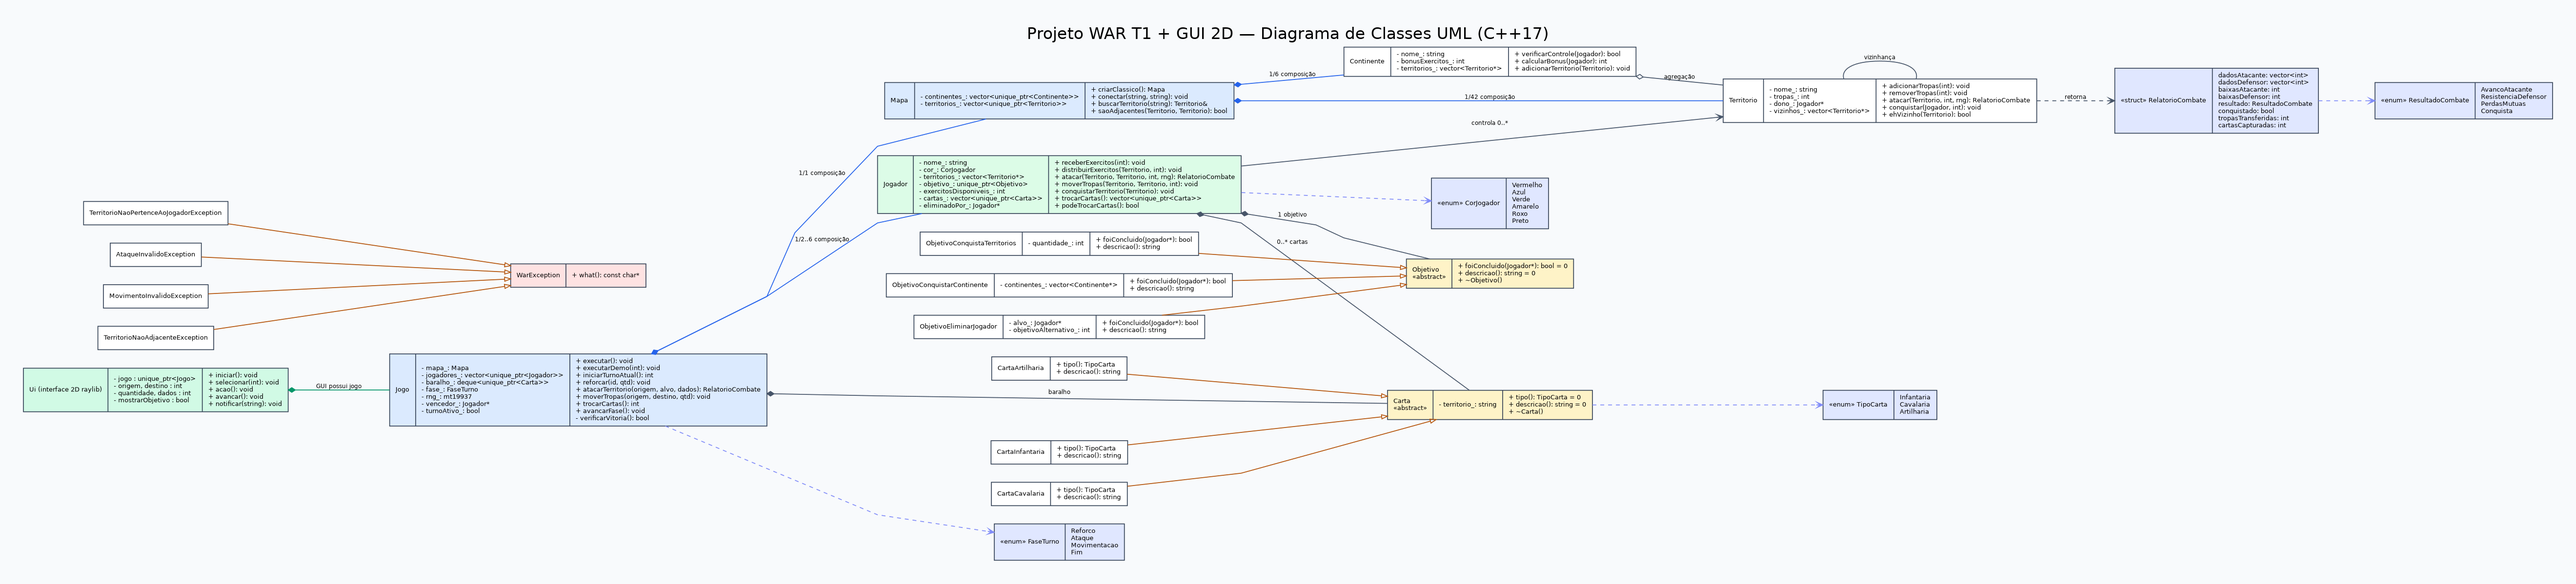
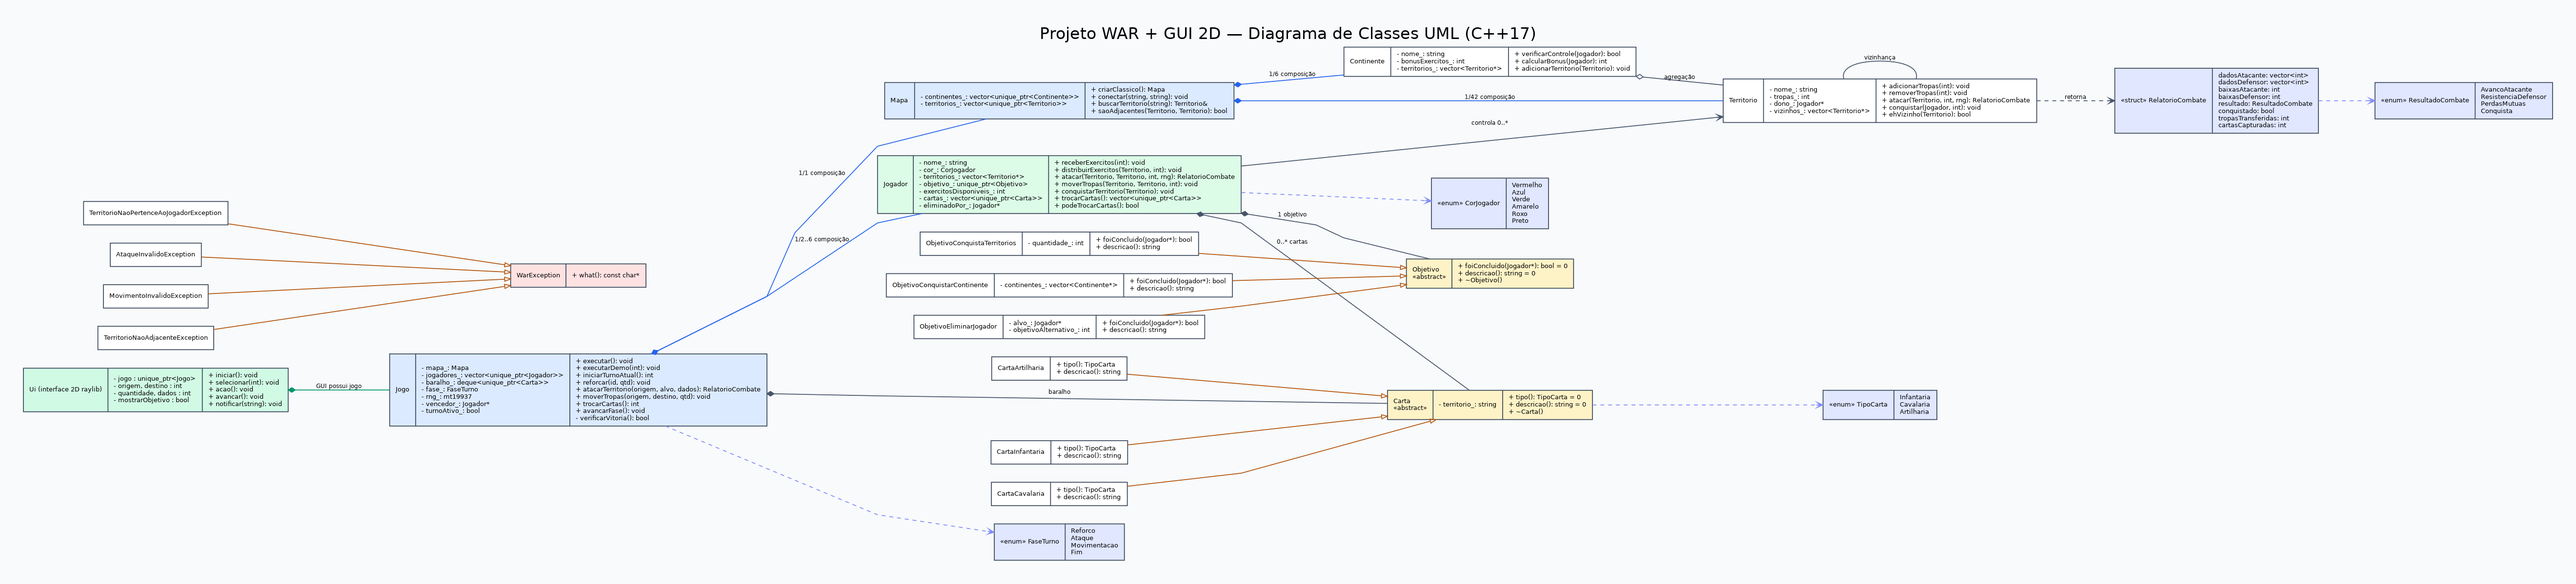
Remove informacoes academicas da documentacao

diff --git a/README.md b/README.md
@@ -1,10 +1,7 @@
 # Projeto WAR — clone educacional em C++17
 
-**Trabalho de Programação Orientada a Objetos (POO)**  
-Versão **2.0 — motor T1 revisado + interface visual 2D opcional** — Jogo completo por **terminal ou janela raylib**, para **2 a 6 pessoas**, ou simulação automática de jogadores.  
+Versão **2.0 — motor do jogo + interface visual 2D opcional** — Jogo completo por **terminal ou janela raylib**, para **2 a 6 pessoas**, ou simulação automática de jogadores.  
 **O motor e o executável de terminal não dependem de bibliotecas gráficas.** A GUI opcional (`make gui`) utiliza **raylib** e preserva a arquitetura C++17.
-
-> **Conferência oficial:** o projeto foi revisado em relação ao arquivo **Enunciado T1 - Jogo Livre.pdf**, fornecido pelo aluno. Veja `docs/CONFERENCIA_T1.md` para a matriz de exigências, limitações e tarefas administrativas ainda pendentes. A **interface 2D com raylib está incluída** nesta entrega como alternativa ao terminal (candidata aos +2 pontos extras; o professor deve avaliar).
 
 ## Interface visual 2D (opcional)
 
@@ -60,18 +57,15 @@ Opcionalmente, execute `executar_windows.bat`, que compila e abre o jogo.
 
    ```bash
    sudo apt update
-   sudo apt install -y build-essential unzip
+   sudo apt install -y build-essential git
    ```
 
-2. Se o arquivo ZIP estiver na pasta **Downloads** do Windows, vá até ela, extraia e entre no projeto (substitua `SEU_USUARIO` pelo nome do usuário do Windows):
+2. Clone o repositório e entre na pasta do projeto:
 
    ```bash
-   cd /mnt/c/Users/SEU_USUARIO/Downloads
-   unzip ProjetoWAR_Final_T1_Revisado.zip
-   cd ProjetoWAR
+   git clone https://github.com/LeoFR007/war.git
+   cd war
    ```
-
-   Se você já extraiu o ZIP pelo Windows, basta entrar na pasta `ProjetoWAR` pelo WSL. Para descobrir onde está: `pwd` e `ls`.
 
 3. Compile o jogo e execute:
 
@@ -217,7 +211,7 @@ A partida também termina quando **apenas um jogador ainda possuir territórios*
 
 ### Simplificações intencionais
 
-Esta é uma **adaptação acadêmica jogável do WAR/Risk**, não uma reprodução exata de cada edição comercial. A interface é textual; a defesa utiliza automaticamente o máximo de três dados; as movimentações são locais (territórios adjacentes), múltiplas durante a fase; os jogadores começam com uma tropa por território e oito tropas adicionais aleatoriamente distribuídas. Não existem negociações, missões/cartas secretas impressas, coringas ou mapa gráfico interativo.
+Esta é uma **adaptação jogável do WAR/Risk**, não uma reprodução exata de cada edição comercial. A interface é textual; a defesa utiliza automaticamente o máximo de três dados; as movimentações são locais (territórios adjacentes), múltiplas durante a fase; os jogadores começam com uma tropa por território e oito tropas adicionais aleatoriamente distribuídas. Não existem negociações, missões/cartas secretas impressas, coringas ou mapa gráfico interativo.
 
 ## 4. Arquitetura de classes (UML)
 
@@ -290,7 +284,7 @@ Os comandos interativos usam `try/catch` nas ações críticas, informando a fal
 ## 7. Estrutura do projeto
 
 ```text
-ProjetoWAR/
+war/
 ├── CMakeLists.txt
 ├── README.md
 ├── Makefile
@@ -323,9 +317,7 @@ ProjetoWAR/
 │   ├── EXEMPLO_EXECUCAO.txt
 │   ├── UML.svg
 │   ├── RELATORIO.md
-│   ├── CONFERENCIA_T1.md
 │   ├── MODELAGEM_UML.md
-│   ├── ROTEIRO_APRESENTACAO.md
 │   └── EVOLUCAO_2D.md
 └── tests/
     └── testes.cpp
@@ -340,28 +332,6 @@ ProjetoWAR/
 
 Os testes incluem quantidade de territórios e continentes, simetria de adjacências, conexão intercontinental, posse, movimentações inválidas, reforço, ataque, conquista, cartas, eliminação com transferência de cartas, troca obrigatória com cinco cartas, fases da API do motor, partidas com 2 a 6 jogadores e os três objetivos.
 
-## 9. Entrega no GitHub — exigência do professor
+## 9. Créditos
 
-O PDF exige **um único entregável: o link do repositório**, e **todos os integrantes devem estar cadastrados como colaboradores**. A entrega deve ocorrer **até 01/11/2026 às 23h50**; o professor também exige que a escolha do jogo seja previamente combinada com ele.
-
-Dentro da raiz do projeto, para criar o histórico local (se ainda não existe um repositório):
-
-```bash
-git init
-git add .
-git commit -m "Projeto WAR T1 - versao revisada C++ e UML"
-```
-
-Crie um repositório vazio na sua conta GitHub e associe-o conforme o endereço fornecido pela plataforma, por exemplo:
-
-```bash
-git branch -M main
-git remote add origin URL_DO_REPOSITORIO
-git push -u origin main
-```
-
-**Não copie `URL_DO_REPOSITORIO` literalmente**: substitua pelo endereço real do seu projeto. Cadastre todos os colaboradores no GitHub e confira se **`docs/UML.png` e `docs/UML.dot`** estão publicados. Consulte `docs/CONFERENCIA_T1.md` e `docs/ROTEIRO_APRESENTACAO.md`.
-
-## 10. Créditos e licença de uso acadêmico
-
-Implementação original e didática inspirada nas mecânicas gerais de jogos de conquista territorial. Não utiliza artes, logotipos, textos de cartas ou outros materiais licenciados de jogos comerciais. O projeto é disponibilizado para estudo, modificação e apresentação acadêmica.
+Implementação original e didática inspirada nas mecânicas gerais de jogos de conquista territorial. Não utiliza artes, logotipos, textos de cartas ou outros materiais licenciados de jogos comerciais. O projeto é disponibilizado para estudo e modificação.

diff --git a/docs/RELATORIO.md b/docs/RELATORIO.md
@@ -3,12 +3,12 @@
 ## 1. Identificação do projeto
 
 **Título:** Jogo WAR: modelagem UML e orientação a objetos em C++17.  
-**Tipo:** Trabalho acadêmico — implementação de jogo preexistente.  
-**Forma de execução:** Terminal de texto; 2 a 6 jogadores humanos ou bots demonstrativos. Revisado frente ao PDF do T1, versão 1.1.
+**Tipo:** Implementação de um jogo de tabuleiro de conquista territorial.  
+**Forma de execução:** Terminal de texto; 2 a 6 jogadores humanos ou bots demonstrativos.
 
 ## 2. Introdução e objetivo
 
-O software recria as mecânicas essenciais de um jogo de conquista territorial, incluindo mapas, continentes, domínios, distribuição de exércitos, turnos, combate com dados, cartas e objetivos pessoais. O foco do trabalho é utilizar conceitos de POO de forma verificável: classes com responsabilidades específicas, herança, abstração, composição, agregação, associações, lambdas, enumerações e tratamento de erros.
+O software recria as mecânicas essenciais de um jogo de conquista territorial, incluindo mapas, continentes, domínios, distribuição de exércitos, turnos, combate com dados, cartas e objetivos pessoais. O foco do projeto é utilizar conceitos de POO de forma verificável: classes com responsabilidades específicas, herança, abstração, composição, agregação, associações, lambdas, enumerações e tratamento de erros.
 
 ## 3. Modelagem UML e arquitetura
 
@@ -64,7 +64,7 @@ Inicializar mapa -> distribuir territórios -> definir objetivos -> montar baral
 | UML com classes e relacionamentos | `docs/UML.png`, `docs/UML.svg` |
 | Estrutura modular `.h` e `.cpp` | `include/`, `src/` |
 | Testes de regras, fases e troca obrigatória | `tests/testes.cpp` |
-| Projeto publicável como repositório | `.gitignore`, `README.md`, `docs/CONFERENCIA_T1.md` |
+| Projeto publicável como repositório | `.gitignore`, `README.md` |
 | README com instruções de compilação | `README.md` |
 
 ## 6. Demonstração de orientação a objetos
@@ -103,8 +103,6 @@ Inicializar mapa -> distribuir territórios -> definir objetivos -> montar baral
 
 A versão não implementa interface gráfica, escolhas de dados de defesa, todas as regras especiais de diferentes edições comerciais ou multiplayer em rede. A escolha das cartas-objetivo é determinística e a distribuição inicial é simplificada. O motor agora expõe operações por fase para facilitar um frontend 2D em SFML, raylib ou SDL2; a etapa gráfica ainda depende de implementação e testes específicos. Consulte `EVOLUCAO_2D.md`.
 
-**Exigências externas ao código:** aprovação prévia do jogo pelo professor, publicação de repositório, cadastro de todos os colaboradores e apresentação em aula; detalhes em `CONFERENCIA_T1.md`.
-
 ## 9. Conclusão
 
-O projeto consolida os pilares de POO em um domínio concreto com regras não triviais. O modelo de classes permite modificar os tipos de objetivos, cartas e a apresentação visual preservando as regras centrais. A compilação via CMake e a suíte de testes facilitam reprodução e avaliação acadêmica.
+O projeto consolida os pilares de POO em um domínio concreto com regras não triviais. O modelo de classes permite modificar os tipos de objetivos, cartas e a apresentação visual preservando as regras centrais. A compilação via CMake e a suíte de testes facilitam a reprodução e a validação do projeto.

diff --git a/docs/INTERFACE_2D.md b/docs/INTERFACE_2D.md
@@ -1,6 +1,6 @@
 # Interface 2D do WAR com raylib — WSL
 
-A interface 2D é **opcional** e funciona sobre o motor `war_core` já entregue no T1.
+A interface 2D é **opcional** e funciona sobre o motor `war_core` do jogo.
 A biblioteca usada é [raylib](https://www.raylib.com/), uma API simples para jogos 2D, implementada em C e compatível com C++17.
 A janela pode ser **redimensionada** sem perder os cliques no tabuleiro. O programa **é lançado pelo terminal** (`make gui`), mas abre uma **janela gráfica**. Isso requer WSL 2 com WSLg ou outro ambiente Linux com servidor gráfico; não desenha no terminal de texto.
 
@@ -73,7 +73,7 @@ cmake --build build-gui --target war_gui -j 2
 - O mapa é **esquemático**, não usa contornos geopolíticos oficiais e não é um desenho licenciado do tabuleiro WAR.
 - Jogadores locais têm nomes automáticos `Jogador 1`, `Jogador 2` etc.; ainda não há tela de personalização.
 - Não há trilha sonora, salvamento, IA visual ou animação elaborada dos dados. O combate é aplicado corretamente pelo motor; os valores são exibidos em texto.
-- O resultado final deve ser avaliado em ambiente real **WSLg com raylib instalada/baixada**, pois a compilação gráfica requer dependências de terceiros e servidor gráfico.
+- O resultado final deve ser testado em ambiente real **WSLg com raylib instalada/baixada**, pois a compilação gráfica requer dependências de terceiros e servidor gráfico.
 
 ## UML
 

diff --git a/docs/MODELAGEM_UML.md b/docs/MODELAGEM_UML.md
@@ -2,10 +2,10 @@
 
 ## Arquivos da UML
 
-- `UML.png`: diagrama completo em imagem, exigido no enunciado.
+- `UML.png`: diagrama completo em imagem.
 - `UML.svg`: mesma imagem vetorial, útil para leitura com zoom.
 - `UML.dot`: **arquivo-fonte editável** do diagrama (ferramenta Graphviz).
-- `UML_resumo.png` e `UML_resumo.dot`: visão de arquitetura mais simples para apresentações.
+- `UML_resumo.png` e `UML_resumo.dot`: visão de arquitetura mais simples.
 
 O arquivo `.dot` utiliza nós no formato *record* para representar classes com atributos e métodos, setas triangulares ocas para herança, diamante preenchido para composição, diamante vazio para agregação e associações direcionadas para as referências sem posse. A legenda fica expressa nos rótulos das relações.
 

diff --git a/docs/EVOLUCAO_2D.md b/docs/EVOLUCAO_2D.md
@@ -24,4 +24,4 @@ O terminal permanece implementado como frontend simples em `Jogo.cpp`. Para a et
 5. Exibir painel de jogadores/objetivos, dados de ataque animados e mensagem de vitória.
 6. Manter `make`, `make test` e o modo terminal funcionando para quem não tiver biblioteca gráfica.
 
-**Estado:** planejamento da próxima etapa. Nenhuma GUI 2D está inclusa nesta entrega.
+**Estado:** a primeira versão da interface 2D (raylib) já foi implementada; os itens acima ficam como referência para evoluções futuras.

diff --git a/docs/VERIFICACAO_GUI.md b/docs/VERIFICACAO_GUI.md
@@ -1,6 +1,6 @@
 # Registro de verificacao — interface 2D WAR
 
-## Verificado na entrega
+## Verificações realizadas
 
 - O jogo original continua compilando via `make` e `cmake` com C++17.
 - O alvo `make test` executou com sucesso o conjunto de testes da versao por terminal.
